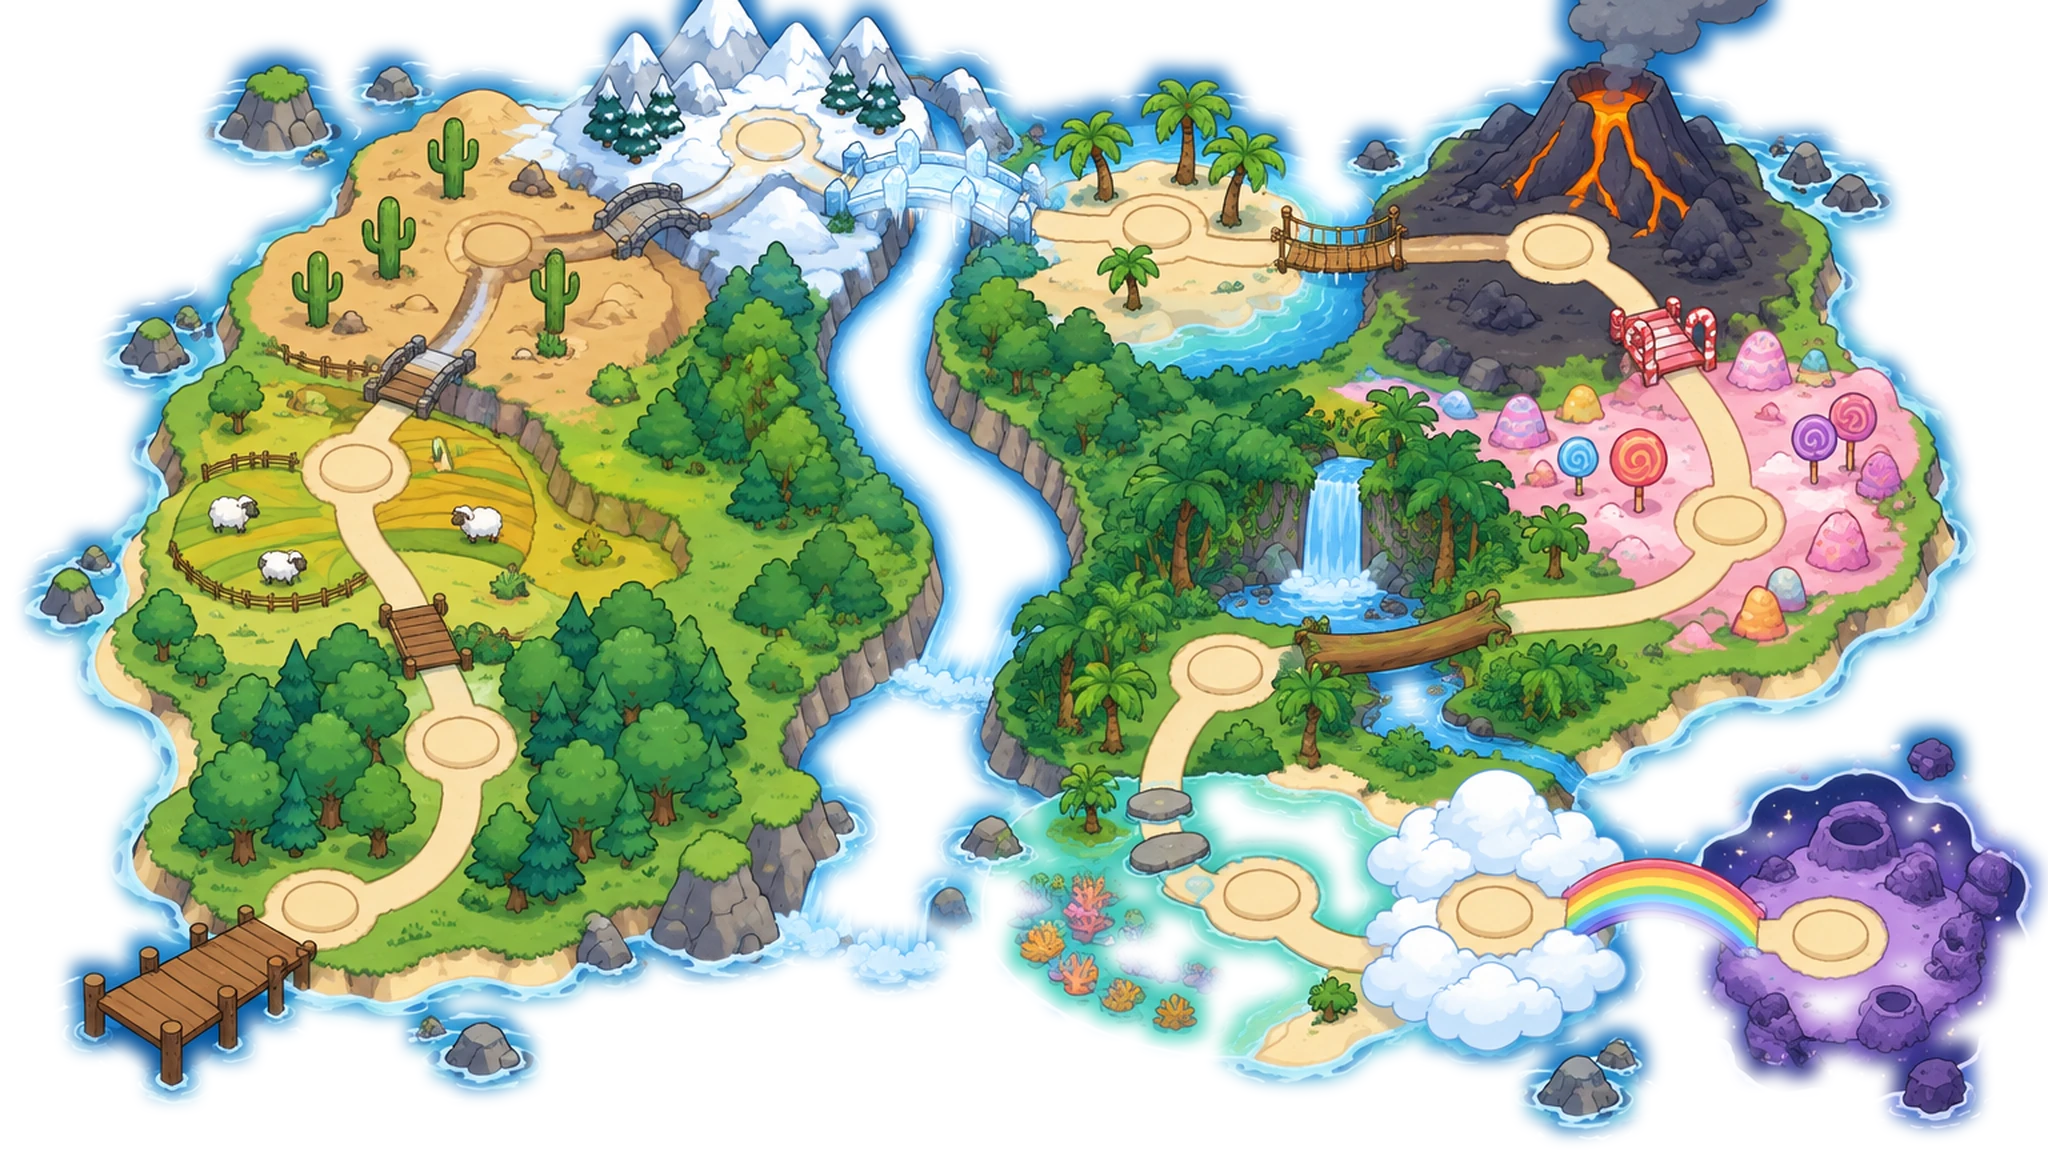
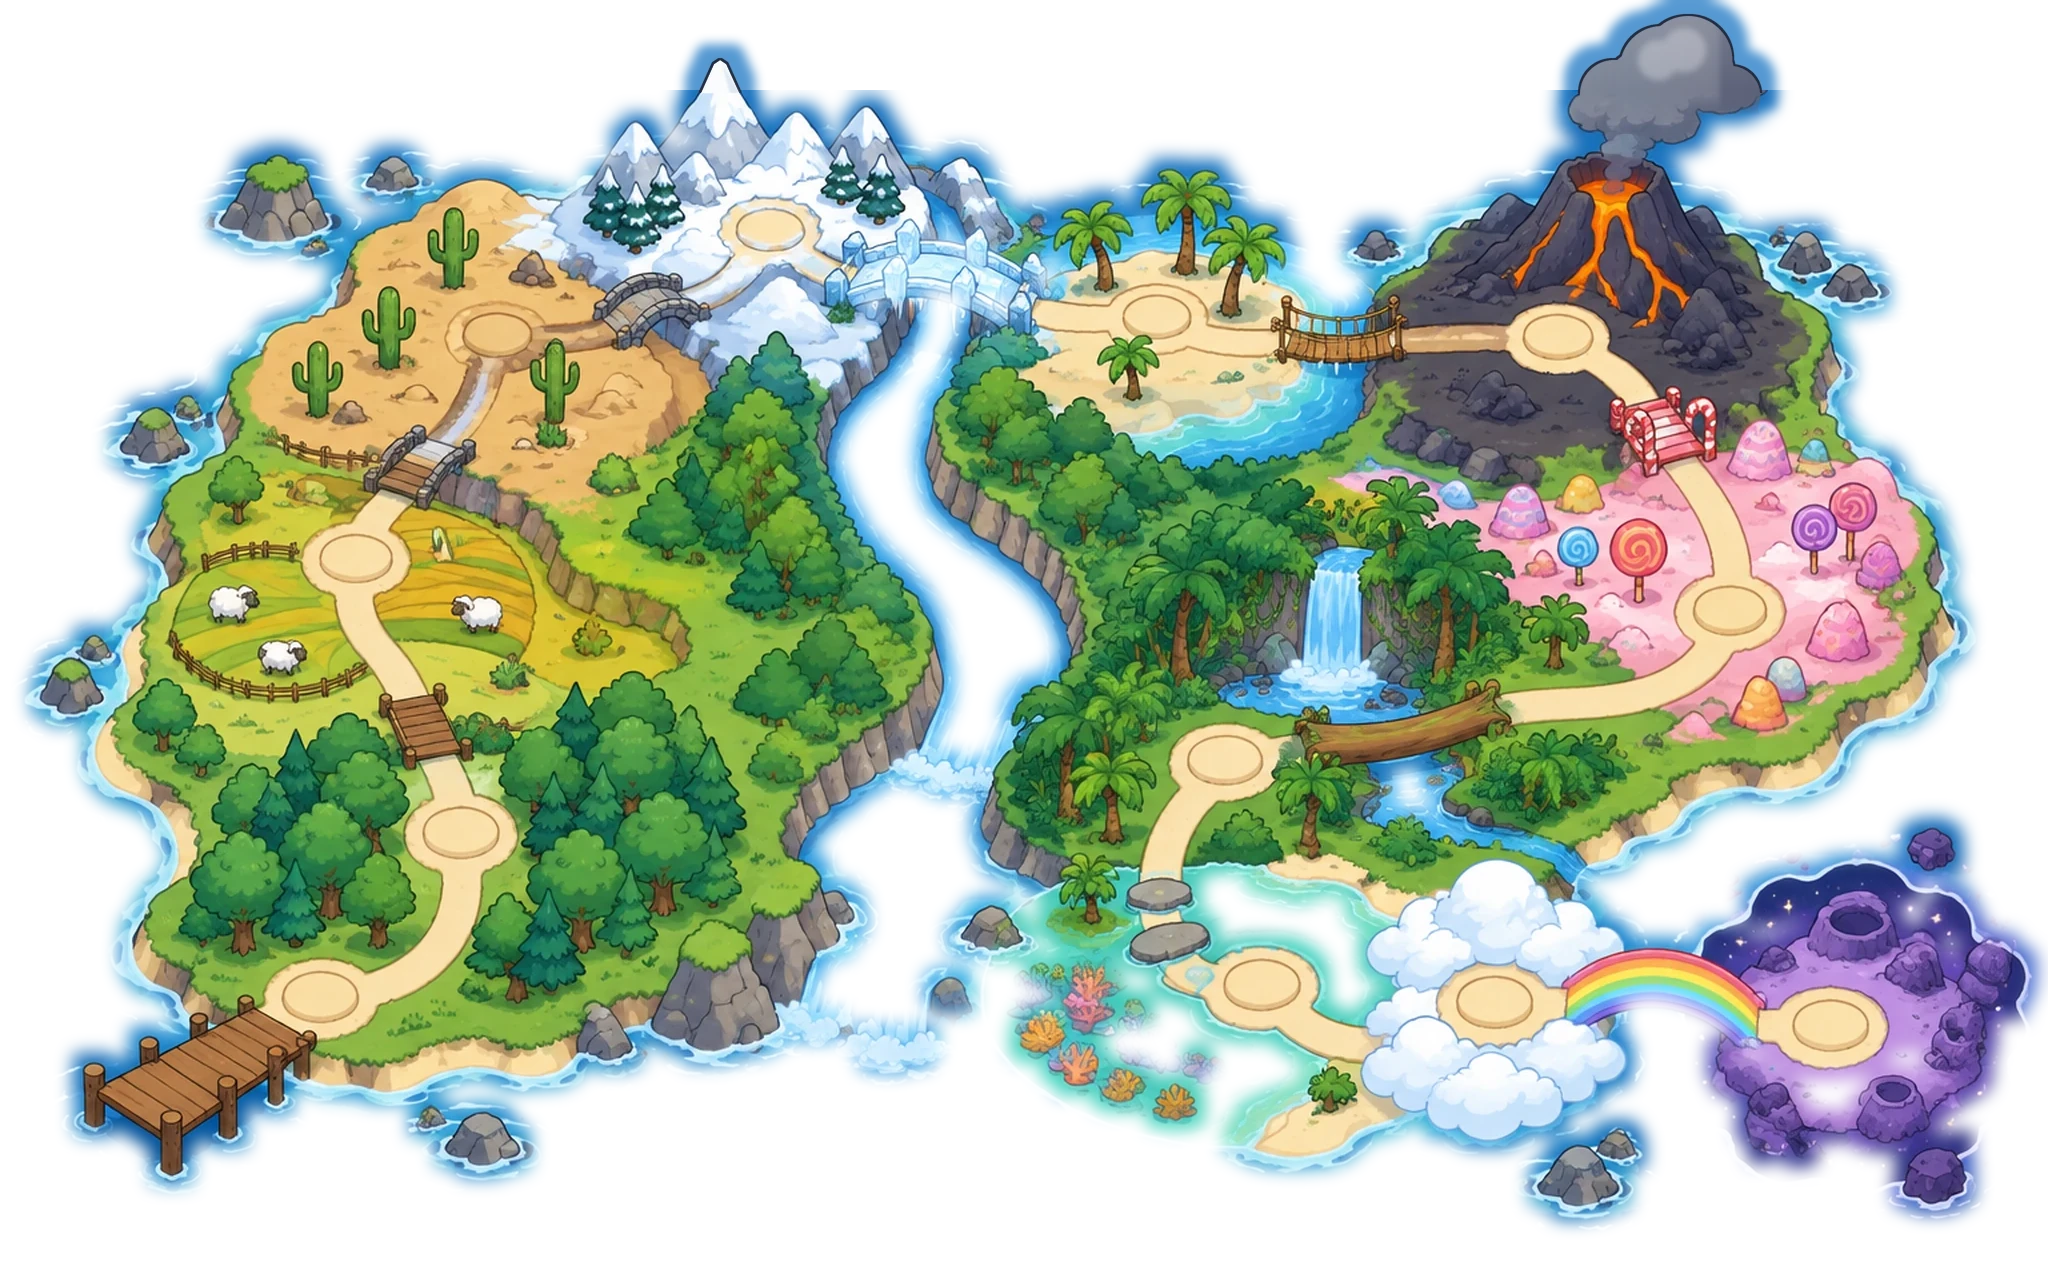
Castelul: insula nu se mai taie sus; reguli de stil
Claude-Session: https://claude.ai/code/session_016fNXyxu9U2zyHjQozgnxy4

diff --git a/src/tower/PaintedMap.tsx b/src/tower/PaintedMap.tsx
@@ -15,23 +15,24 @@ import cloud3 from './cloud-3.webp'
 
 /** Size of the picture; everything below is placed in these pixels. */
 const W = 2048
-const H = 1152
+/** The picture has 90 px of sea painted above the island and 30 below, so nothing touches its edge. */
+const H = 1272
 
 type Pt = { x: number; y: number }
 
 /** Where each land's castle stands: x is its middle, y the ground under its gate, w its width. */
 const CASTLE_AT: { x: number; y: number; w: number }[] = [
-  { x: 453, y: 759, w: 170 }, // forest
-  { x: 353, y: 488, w: 170 }, // farm
-  { x: 500, y: 265, w: 170 }, // desert
-  { x: 763, y: 152, w: 170 }, // snow
-  { x: 1136, y: 243, w: 170 }, // beach
-  { x: 1557, y: 263, w: 170 }, // volcano
-  { x: 1728, y: 532, w: 170 }, // candy
-  { x: 1213, y: 681, w: 170 }, // jungle
-  { x: 1260, y: 915, w: 170 }, // sea
-  { x: 1483, y: 928, w: 170 }, // clouds
-  { x: 1820, y: 949, w: 170 }, // space
+  { x: 453, y: 849, w: 170 }, // forest
+  { x: 353, y: 578, w: 170 }, // farm
+  { x: 500, y: 355, w: 170 }, // desert
+  { x: 763, y: 242, w: 170 }, // snow
+  { x: 1136, y: 333, w: 170 }, // beach
+  { x: 1557, y: 353, w: 170 }, // volcano
+  { x: 1728, y: 622, w: 170 }, // candy
+  { x: 1213, y: 771, w: 170 }, // jungle
+  { x: 1260, y: 1005, w: 170 }, // sea
+  { x: 1483, y: 1018, w: 170 }, // clouds
+  { x: 1820, y: 1039, w: 170 }, // space
 ]
 
 /** The name label sits on the road just in front of each castle gate. */

diff --git a/src/tower/tower.css b/src/tower/tower.css
@@ -847,7 +847,7 @@
 .td-isl-wrap {
   /* leave sea around the island: its beach pokes past the drawing's edges */
   /* the island keeps a ring of sea around it */
-  width: min(92%, calc((100dvh - var(--appbar-h, 87px) - 70px) * 1.7855));
+  width: min(92%, calc((100dvh - var(--appbar-h, 87px) - 70px) * 1.61));
 }
 .td-lands-wide .td-lands-head {
   position: absolute;

diff --git a/docs/stil-imagini.md b/docs/stil-imagini.md
@@ -1,19 +1,41 @@
-# Stilul imaginilor Tudoo! („desen simplu de poveste”)
+# Regulile de stil Tudoo! („desen simplu de poveste”)
 
-Stilul ales de părinte pe 26 nov 2026, pentru harta Castelului. Se folosește pentru **toate** imaginile noi din aplicație: hărți, fundaluri de luptă, castele, boși, abțibilduri.
+Stilul ales de părinte pe 26 nov 2026 pentru harta Castelului. De acum se folosește pentru **toate** imaginile și elementele noi din aplicație: hărți, fundaluri, castele, nivelurile din Hartă, etichete, carduri. Abțibildurile și boșii rămân deocamdată în stilul vechi, până se cere altfel.
 
-Referință vizuală: `src/tower/painted-island.webp` (insula, fără castele), `src/tower/map-castle/*.webp` (castelele) și harta veche din Figma (fișier `2kft1INQWgNe7aXRll44Aq`, nodul `4:7`).
+Referință vizuală: harta Castelului pe desktop. Insula e în `src/tower/painted-island.webp`, castelele în `src/tower/map-castle/*.webp`, iar etichetele în clasa `.td-gate-label` din `src/tower/tower.css`.
 
-## Pe scurt
+## 1. Reguli de aur
 
-- Desen de carte de povești pentru copii de 5 ani, nu realist.
-- Contur subțire, închis la culoare (maro-negru), în jurul fiecărei forme.
-- Culori blânde, luminoase, puțin pastel. Umbre foarte simple, fără texturi fine.
-- Puține detalii: forme rotunde și mari, multe zone liniștite și plate. Fiecare loc are 2–4 obiecte clare, nu zeci.
-- Obiectele (castele, case, copaci) sunt mici și „drăguțe”, așezate pe pământ ca parte din desen, cu umbră proprie. Nimic nu plutește.
-- Fără text, litere sau cifre în imagine. Textul îl pune aplicația.
+1. **Desen de carte de povești pentru un copil de 5 ani.** Nu realist, nu 3D, nu fotografic.
+2. **Puține detalii.** Forme mari și rotunde, multe zone calme și plate. Fiecare loc are 2–4 obiecte clare, nu zeci de pietricele.
+3. **Contur subțire, închis** (maro-negru, aproape `#2b2118`) în jurul fiecărei forme.
+4. **Culori blânde, luminoase.** Umbre foarte simple, fără texturi fine sau gradiente puternice.
+5. **Nimic nu plutește.** Obiectele stau pe pământ, cu umbra lor, ca parte din desen.
+6. **Fără text în imagini.** Literele, cifrele și numele le pune aplicația.
+7. **Același stil când refacem ceva.** Folosim aceeași rețetă și aceleași culori, fără variații „puțin diferite”.
 
-## Paleta (din harta aprobată)
+## 2. Hărțile se fac din bucăți
+
+- **Fundalul** (insula sau terenul) e o imagine separată, fără castele sau clădiri mari. Are câte un luminiș gol unde vine fiecare nivel.
+- **Fiecare castel sau obiect mare e o imagine separată.** Se pune peste fundal, pe luminișul lui. Dacă vrem să schimbăm un castel, îl redesenăm doar pe el.
+- **Drumul e pictat în fundal.** E un singur traseu, în ordinea nivelurilor, fără ramificații, bucle sau scurtături. Nu desenăm drum SVG peste pictură.
+- **Trecerile dintre tărâmuri sunt variate**, nu la fel peste tot: pod de lemn, de piatră, de frânghie, de gheață, din bastonașe de bomboane, un buștean, pietre în apă, curcubeu.
+- **Tărâmurile se leagă între ele** pe o singură bucată de pământ. Nu facem insulițe separate pentru fiecare nivel.
+- Când pictura nu iese perfect, reparăm mici bucăți (de exemplu ștergem un pod în plus). Nu repictăm toată harta pentru o schimbare mică.
+
+## 3. Etichetele nivelurilor (pergament)
+
+Numele nivelului e scris pe un pergament mic (`.td-gate-label`), fără bifă și fără lacăt. Starea se vede din culoare.
+
+| Stare | Cum arată |
+|---|---|
+| Terminat | pergament auriu (`#ffe08a`, contur `#b07d10`) |
+| Activ (de jucat acum) | pergament crem, puțin mai mare (×1.15), cu contur auriu strălucitor |
+| Încuiat | pergament gri spălăcit (`#e4ddd0`); castelul lui e și el gri, pe jumătate transparent |
+
+Fontul e **Baloo 2**, care are corect ș și ț cu virgulă dedesubt, plus ă, î, â. Nu folosim fonturi fără diacritice românești; Comfortaa, de exemplu, le arată cu sedilă. Textul din cod se scrie mereu cu ș/ț cu virgulă (U+0219/U+021B), nu cu sedilă (ş/ţ).
+
+## 4. Paleta (din harta aprobată)
 
 | Rol | Culoare |
 |---|---|
@@ -23,25 +45,25 @@ Referință vizuală: `src/tower/painted-island.webp` (insula, fără castele), 
 | Nisip / drum | `#eacba9`, `#e8decb`, `#e2b09d` |
 | Zăpadă / nori | `#eef1f4` |
 | Lună / mov | `#715971`, `#aa8597` |
-| Contur | maro-negru închis, aproape `#2b2118` |
+| Contur | `#2b2118` |
+| Pergament | `#f8ebc8`, contur `#8a6a3e`, text `#5a3c1a` |
 
-Drumul este nisip deschis (`#e8decb`) cu un contur subțire, un singur traseu fără scurtături.
+## 5. Rețeta pentru generare (Figma AI, model `gpt-image-2.5-sunburst`)
 
-## Rețeta pentru generare (Figma AI, model `gpt-image-2.5-sunburst`)
-
-Lipește blocul de stil la finalul oricărui prompt:
+Blocul de stil se lipește la finalul oricărui prompt:
 
 > Simple hand-drawn children's storybook illustration: thin dark ink outlines, soft gentle colours, simple rounded shapes, LOW detail, lots of calm flat areas, cute and clean, not busy. Objects are small, cute and sit on the ground as part of the drawing. Absolutely no text, no letters, no numbers.
 
-Mărimi: `1536x864` pentru imagini late (hărți desktop, fundaluri de luptă), `864x1536` pentru verticale (Hartă pe telefon), `1024x1024` pentru obiecte (castele, boși, abțibilduri).
+- **Mărimi:** `1536x864` pentru imagini late (hartă desktop, fundaluri de luptă), `864x1536` pentru verticale (nivelurile din Hartă pe telefon), iar obiectele câte 3–4 pe rând într-o imagine `1536x864`.
+- **Obiecte (castele):** pe fundal uniform magenta `#ff00ff` („on a flat plain magenta background, no ground, no shadows”), câte 3–4 pe rând, cu spații mari între ele. Le decupăm cu cheia de culoare, le tăiem pe coloane și le salvăm la 512 px lățime.
+- **Hartă cu drum:** descriem ordinea exactă a tărâmurilor și unde e fiecare (stânga jos, sus...). Cerem „ONE single continuous road ... no branches, no loops, no shortcuts, no dead ends” și „NO castles, one empty round clearing per land”.
+- **Decupare:** marea din jurul insulei se decupează prin umplere din margini, ca insula să se îmbine cu marea paginii.
+- **Descărcare:** cu `get_screenshot` (`maxDimension: 2048`). Salvăm ca WebP, calitate ~90, la 2K (2048 px pe latura lungă).
+- **Verificare:** înainte de a pune ceva live, îi arătăm părintelui o captură.
 
-- Obiecte decupate (castel, boss, abțibild): cere fundal uniform magenta `#ff00ff` („on a flat plain magenta background”) și decupează cu scriptul de cheie de culoare.
-- Hărți: cere marea în jurul insulei. Decupează apoi marea exterioară (umplere din margini), ca insula să se îmbine cu marea paginii.
-- Descarcă la rezoluție maximă cu `get_screenshot` (`maxDimension: 2048`). Salvează ca WebP, calitate ~90, la 2K (2048 px pe latura lungă).
-
-## Ce evităm
+## 6. Ce evităm
 
 - Stilul „desenat detaliat” (contururi groase, multe pietricele, texturi), folosit înainte de 26 nov.
-- Aspect realist, 3D sau fotografic.
-- Să pictăm toată harta din nou pentru o schimbare mică. Harta se face din bucăți: insula separat, fiecare castel separat (desenat în același stil, pus pe pământ cu umbră), iar drumul pe niveluri e desenat în aplicație cu contur subțire maro și nisip în interior, auriu cât ai parcurs.
-- Să schimbăm stilul „puțin” când refacem ceva: aceeași rețetă, aceleași culori.
+- Clădiri asemănătoare între tărâmuri. Fiecare castel are altă formă (turnuri rotunde, cupole, plate, iglu...), nu doar turnuri ascuțite.
+- Elemente SVG puse „deasupra” unei picturi ca să imite peisajul (drumuri trasate, castele plutitoare).
+- Bifă și lacăt pe etichete.
